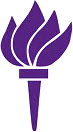
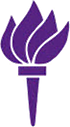
Update shibboleth style :art:

diff --git a/assets/stylesheets/application/_form.scss b/assets/stylesheets/application/_form.scss
@@ -3,7 +3,7 @@ label {
 }
 
 .shibboleth {
-  height: 160px;
+  height: 150px;
   width: 150px;
   line-height: 20px;
   font-size: 20px;
